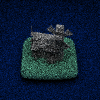
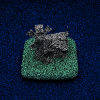
Fix reversed x-axis on perspective camera
As I was debugging this with Blender, I noticed my assumptions about the
axes was off. I think of the positive X-Y axis as being in the top-right
corner of the camera's view. This is only true if you're looking down
the negative Z axis.

diff --git a/src/camera/perspective.rs b/src/camera/perspective.rs
@@ -5,6 +5,11 @@ use super::super::vector;
 use super::Camera;
 use std::f64::consts::PI;
 
+const AXIS_Z_MIRROR: vector::Vector = vector::Vector {
+    x: 1.0,
+    y: 1.0,
+    z: -1.0,
+};
 const RADIANS_PER_DEGREE: f64 = PI / 180.0;
 const TAU: f64 = PI * 2.0;
 
@@ -57,6 +62,9 @@ impl Camera for PerspectiveCamera {
     /// When depth of field is applied, the origin of the ray will no longer
     /// originate at the x, y coordinate of the original plane but will
     /// instead be cast to intersect the focal point in front of the camera.
+    ///
+    /// With no transformations applied to the camera, it will point down the
+    /// negative Z-axis.
     fn cast(&self, random: &mut impl random::Rng, x: f64, y: f64) -> Ray {
         let field_of_view_radians = self.field_of_view * RADIANS_PER_DEGREE;
 
@@ -64,10 +72,11 @@ impl Camera for PerspectiveCamera {
             .rotate(vector::AXIS_X, y * field_of_view_radians)
             .rotate(vector::AXIS_Y, x * field_of_view_radians);
 
-        let direction = vector::AXIS_Z.transform(m);
+        // Mirror it so that the camera looks down the negative Z-axis.
+        let direction = vector::AXIS_Z.transform(m).multiply(AXIS_Z_MIRROR);
 
         let focal_length = 1.0 / field_of_view_radians;
-        let center = vector::Vector::new(0.0, 0.0, focal_length * -1.0);
+        let center = vector::Vector::new(0.0, 0.0, focal_length);
 
         let origin = center.add(direction.scale(focal_length));
 

diff --git a/src/vector.rs b/src/vector.rs
@@ -73,6 +73,10 @@ impl Vector {
         (self.x.powi(2) + self.y.powi(2) + self.z.powi(2)).sqrt()
     }
 
+    pub fn multiply(&self, v: Vector) -> Vector {
+        Vector::new(self.x * v.x, self.y * v.y, self.z * v.z)
+    }
+
     pub fn normalize(&self) -> Vector {
         let length = self.length();
         Vector::new(self.x / length, self.y / length, self.z / length)

diff --git a/src/render.rs b/src/render.rs
@@ -47,8 +47,10 @@ pub fn render<'a>(
     );
 
     for y_pixel in 0..height {
+        // Positive is up.
         let y = y_ratio * ((y_pixel as f64 / (height - 1) as f64) - 0.5) * -1.0;
         for x_pixel in 0..width {
+            // Positive is right.
             let x = x_ratio * (x_pixel as f64 / (width - 1) as f64 - 0.5);
 
             let mut color = BLACK;

diff --git a/src/bin/triangle.rs b/src/bin/triangle.rs
@@ -11,7 +11,6 @@ use std::fs;
 
 fn main() -> image::ImageResult<()> {
     let camera_matrix = matrix::IDENTITY_MATRIX
-        .rotate(vector::AXIS_Y, PI)
         .rotate(vector::AXIS_X, PI / -4.3)
         .translate(vector::Vector::new(0.0, 5.0, 5.0));
 
